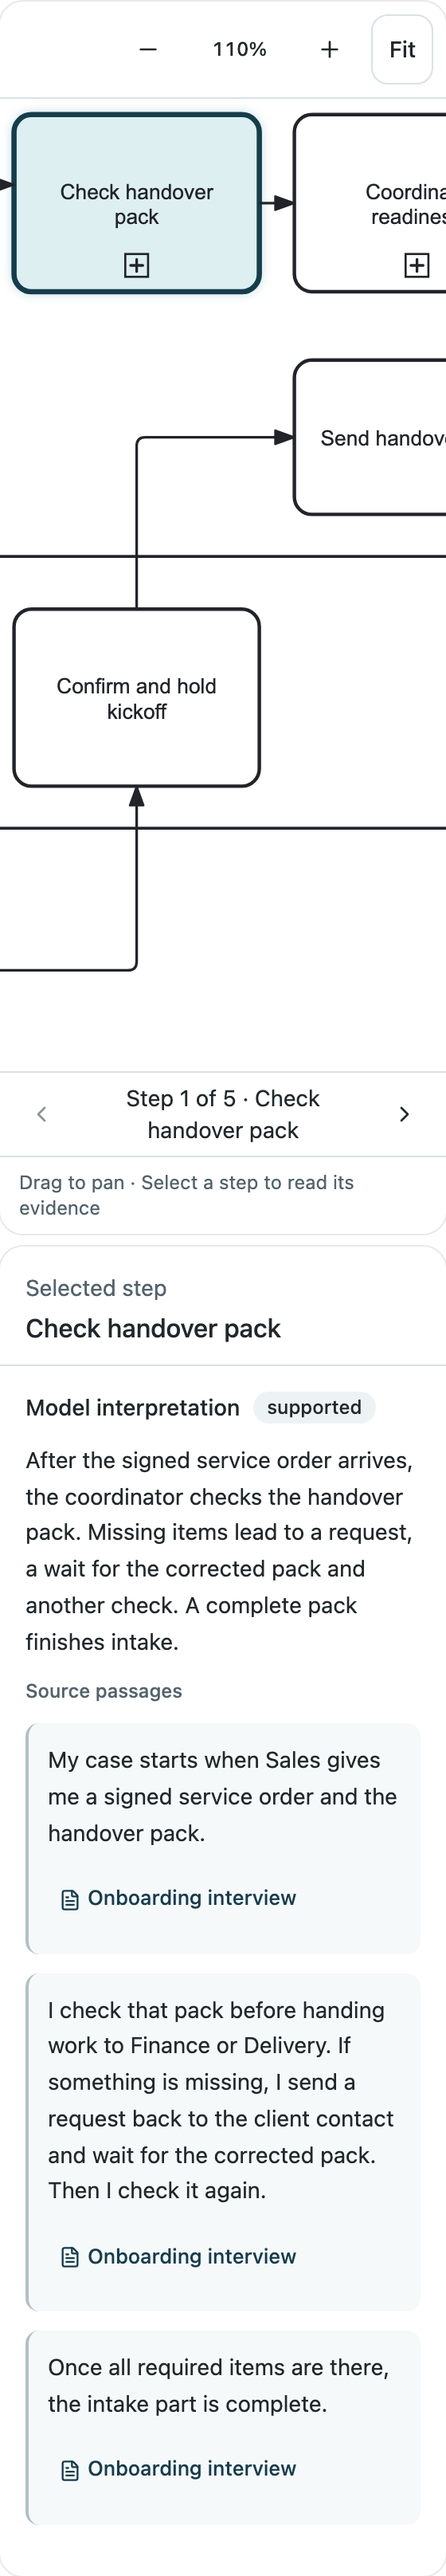
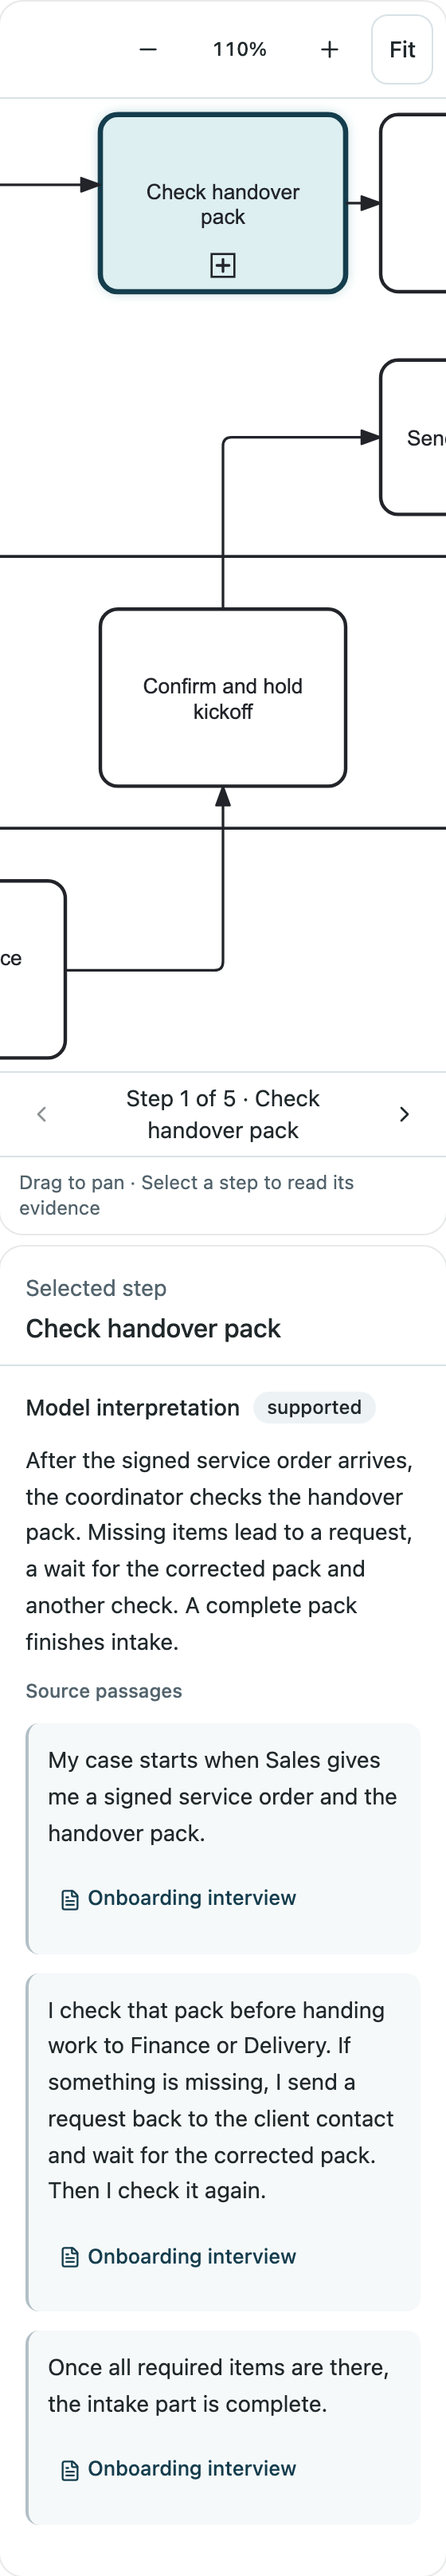
Open the home page example with its selected step whole and centered, instead of where the diagram was left before a reload

diff --git a/scripts/test-cloudflare-browser.js b/scripts/test-cloudflare-browser.js
@@ -231,6 +231,37 @@ try {
   }
   await p.setViewportSize({ width: 1440, height: 1000 });
   console.log("Homepage example loads without moving the page, and its capture stays when it cannot load");
+  // The example opens with its selected step whole in the diagram, centered where the steps don't all fit,
+  // on a first visit and on a reload after the visitor has moved the diagram to another step.
+  for (const width of [1440, 1279, 1024, 768, 390, 320]) {
+    await p.setViewportSize({ width, height: 844 });
+    await p.evaluate(() => sessionStorage.clear());
+    for (const visit of ["a first visit", "a reload after another step was shown"]) {
+      await p.goto(base + "/");
+      await demo.scrollIntoViewIfNeeded();
+      await demo.locator(".diagram-stage .is-selected").waitFor();
+      const first = await demo.evaluate(node => {
+        const stage = node.querySelector(".diagram-stage").getBoundingClientRect(), shape = node.querySelector(".is-selected > rect").getBoundingClientRect();
+        return {
+          title: node.querySelector('.evidence-card [data-slot="card-title"]').textContent,
+          cut: Math.min(shape.left - stage.left, stage.right - shape.right, shape.top - stage.top, stage.bottom - shape.bottom),
+          offCenter: Math.abs(shape.left + shape.right - stage.left - stage.right) / 2,
+        };
+      });
+      assert.equal(first.title, "Check handover pack");
+      assert.ok(first.cut >= 4, `${width}px, ${visit}: the selected step is whole in the diagram (${first.cut}px inside its nearest edge)`);
+      if (width < 1024) assert.ok(first.offCenter <= 2, `${width}px, ${visit}: the selected step is centered (${first.offCenter}px off)`);
+      // Leave the diagram on the last step, where the first is out of view on a phone.
+      await demo.locator(".diagram-stage").evaluate(node => node.scrollIntoView({ block: "center" }));
+      const box = await demo.locator(".diagram-stage").boundingBox();
+      await p.mouse.move(box.x + box.width - 20, box.y + 300);
+      await p.mouse.down();
+      await p.mouse.move(box.x + 20, box.y + 300, { steps: 5 });
+      await p.mouse.up();
+      await p.waitForTimeout(200);
+    }
+  }
+  console.log("Homepage example opens with its selected step whole at every width, on a first visit and on a reload");
   // From 1024 px up the example opens with the whole view inside the diagram's edges.
   for (const width of [1440, 1024]) {
     await p.setViewportSize({ width, height: 1000 });

diff --git a/src/web/components/diagram-canvas.tsx b/src/web/components/diagram-canvas.tsx
@@ -34,7 +34,9 @@ interface Props {
   storageKey: string;
   onSelect: (id: string) => void;
   onZoom: (zoom: number) => void;
-  // Open at this zoom from the view's top left corner, shifted to hold these elements when they fit. The first is always in view.
+  // Open at this zoom from the view's top left corner when these elements fit side by side. When they don't,
+  // open with the first centered sideways, as show() leaves it. A view opened this way always opens the same,
+  // so its camera isn't remembered across page loads.
   frame?: { ids: string[]; scale: number };
   ref: Ref<CanvasControls>;
 }
@@ -114,7 +116,7 @@ export function DiagramCanvas({
       };
       let stored: Camera | undefined;
       try {
-        const candidate = JSON.parse(sessionStorage.getItem(key) || "null");
+        const candidate = frame ? null : JSON.parse(sessionStorage.getItem(key) || "null");
         if (
           candidate &&
           [candidate.x, candidate.y, candidate.scale].every(Number.isFinite) &&
@@ -128,6 +130,7 @@ export function DiagramCanvas({
       let camera: Camera = saved.current.get(view.elementId) ||
         stored || { ...original, scale: 1, fitted: true };
       flush = () => {
+        if (frame) return;
         try {
           sessionStorage.setItem(key, JSON.stringify(camera));
         } catch {
@@ -278,9 +281,10 @@ export function DiagramCanvas({
         // Start at the view's top left corner. Move only as far as the last element needs, and never past the first.
         const start = (edge: number, first: number, last: number, span: number) =>
           Math.min(Math.max(edge + 12, last + pad - span), first - pad);
+        const left = Math.min(...boxes.map((b) => b.x)), right = Math.max(...boxes.map((b) => b.x + b.width));
         camera = {
           scale,
-          x: start(original.x, boxes[0].x, Math.max(...boxes.map((b) => b.x + b.width)), width / scale),
+          x: right - left + 2 * pad > width / scale ? boxes[0].x + boxes[0].width / 2 - width / scale / 2 : start(original.x, boxes[0].x, right, width / scale),
           y: start(original.y, boxes[0].y, Math.max(...boxes.map((b) => b.y + b.height)), height / scale),
           fitted: false,
         };

diff --git a/src/web/components/marketing.tsx b/src/web/components/marketing.tsx
@@ -12,7 +12,7 @@ import { PathArt } from "./path-art";
 import { PricingPlans } from "./pricing-plans";
 
 // Bump the version when public/marketing changes (docs/marketing-design.md, "Sharp product previews").
-const capture = (file: string) => `/marketing/${file}?v=12`;
+const capture = (file: string) => `/marketing/${file}?v=13`;
 const repository = "https://github.com/HanifCarroll/Senda";
 const methodology = `${repository}/blob/main/skills/senda/references/methodology.md`;
 

diff --git a/docs/marketing-design.md b/docs/marketing-design.md
@@ -63,7 +63,7 @@ Live references were inspected and visually captured on 27 October 2026:
 
 ## The live example
 
-The evidence section embeds the public example instead of a picture of it, so a visitor can select a step and read its evidence without leaving the page. `EvidenceDemo` in `src/web/components/evidence-demo.tsx` shows the first draft's main view in the app's own `DiagramCanvas` and `EvidencePanel`, with "Check handover pack" selected. The first draft's main view is the one view whose steps show different passages from the interview itself: three passage sets across five steps, because "Verify workspace access", "Confirm and hold kickoff" and "Send handover pack" share one set, and the questions section under it shows the same draft's question. The diagram opens at 110%, so its labels are 12 px, from the view's top left corner. From 1024 px up the whole view is inside the diagram's edges: the diagram is 824 px tall, which is the view's 740 px at 110% with a 10 px margin, and no step, lane or label is cut. From 1280 px up the evidence panel sits beside the diagram. From 1024 to 1279 px the diagram would be too narrow for the view beside the panel, so the panel sits under it, 650 px tall, which holds the longest step's evidence at 1024 px without scrolling. If the view's height changes, change the 824 px in `src/web/styles.css` and the two box heights in `marketing.tsx` with it. On a phone the diagram is wider than the screen, so it starts at its left edge with the selected step in view, and the step buttons under it bring the others into view.
+The evidence section embeds the public example instead of a picture of it, so a visitor can select a step and read its evidence without leaving the page. `EvidenceDemo` in `src/web/components/evidence-demo.tsx` shows the first draft's main view in the app's own `DiagramCanvas` and `EvidencePanel`, with "Check handover pack" selected. The first draft's main view is the one view whose steps show different passages from the interview itself: three passage sets across five steps, because "Verify workspace access", "Confirm and hold kickoff" and "Send handover pack" share one set, and the questions section under it shows the same draft's question. The diagram opens at 110%, so its labels are 12 px, from the view's top left corner. From 1024 px up the whole view is inside the diagram's edges: the diagram is 824 px tall, which is the view's 740 px at 110% with a 10 px margin, and no step, lane or label is cut. From 1280 px up the evidence panel sits beside the diagram. From 1024 to 1279 px the diagram would be too narrow for the view beside the panel, so the panel sits under it, 650 px tall, which holds the longest step's evidence at 1024 px without scrolling. If the view's height changes, change the 824 px in `src/web/styles.css` and the two box heights in `marketing.tsx` with it. Below 1024 px the diagram is wider than the example, so it opens with the selected step centered sideways, as a step button leaves it, and the step buttons under it bring the others into view. The example always opens this way: unlike the app, it doesn't remember where a visitor left the diagram, because a reload shows the first step selected again and a remembered position could leave that step out of view.
 
 - **Nothing navigates.** The selection is local state, so the URL never changes. A passage's source opens in a sheet over the page. The plain "Open the full example" link under it goes to `/example?draft=true` and is the only way out.
 - **No dead buttons.** The demo shows one view, so a subprocess is a step with evidence and has no "Explore this part" button. A step's related questions are shown as text, because the demo has no question list to open. In the app both are still buttons.
@@ -76,7 +76,7 @@ The evidence section embeds the public example instead of a picture of it, so a 
   - The first tap ends the hold on the example's height with the diagram at the height it has, so the buttons don't move under the visitor's thumb.
 - **Phones** show the diagram 610 px tall, which holds every step at 110%, with the evidence panel under it at its full height, so the panel never scrolls inside the page. With the step buttons between them they are 1,531 px tall at 390 px and 1,615 px at 320 px.
 
-`scripts/test-cloudflare-browser.js` selects a step in it and checks that the panel shows another passage, the URL doesn't change, and the wheel scrolls the page. At 390 and 320 px it goes through the five steps with the step buttons and checks each time that the label, the diagram and the panel name the same step, the step is whole and centered in the diagram, and the URL and the page's scroll position haven't changed. At 1440 px it checks that the buttons are hidden. At 1440 and 1024 px it checks that the diagram's text is 12 px or more and that nothing in the diagram is cut by its edges. On `/` and `/example?draft=true` at 1440 and 390 px it runs `scripts/diagram-text-check.js`, which fails if any diagram text overlaps other text or crosses a pool or lane border. At 1440, 1280, 1279, 1024, 768, 390 and 320 px it holds the data request back and checks that the section's height and the next section's top don't move when the demo appears, then fails the request and checks that the capture stays.
+`scripts/test-cloudflare-browser.js` selects a step in it and checks that the panel shows another passage, the URL doesn't change, and the wheel scrolls the page. At 390 and 320 px it goes through the five steps with the step buttons and checks each time that the label, the diagram and the panel name the same step, the step is whole and centered in the diagram, and the URL and the page's scroll position haven't changed. At 1440 px it checks that the buttons are hidden. At 1440, 1279, 1024, 768, 390 and 320 px it checks that the selected step is whole in the diagram on a first visit and on a reload after the diagram was dragged away, and below 1024 px that it is centered. At 1440 and 1024 px it checks that the diagram's text is 12 px or more and that nothing in the diagram is cut by its edges. On `/` and `/example?draft=true` at 1440 and 390 px it runs `scripts/diagram-text-check.js`, which fails if any diagram text overlaps other text or crosses a pool or lane border. At 1440, 1280, 1279, 1024, 768, 390 and 320 px it holds the data request back and checks that the section's height and the next section's top don't move when the demo appears, then fails the request and checks that the capture stays.
 
 ## Captures
 

diff --git a/CHANGELOG.md b/CHANGELOG.md
@@ -7,6 +7,7 @@
 - Show the public example live in the homepage's evidence section, so selecting a step shows its passage on the page instead of opening `/example`. It shows the first draft's main view, whose steps show three different sets of passages, loads when the section comes near the viewport without moving the page, and never takes over the page's scroll. On desktop, sections now put text beside their visual, alternating sides, which makes the page about 900 px shorter at 1440 px wide.
 - Add "Previous step" and "Next step" buttons under the homepage example on phones and tablets, with a label such as "Step 2 of 5 · Coordinate readiness". Each one selects a step, moves the diagram to it and shows its passages, so visitors read all five steps without dragging the diagram sideways.
 - Keep pool and lane names inside their own pool or lane: a long name wraps onto two lines along the title strip, and a lane too short for its name gets taller. Lanes no longer overlap the lane below after a step grows, a flow label's drawn lines stay clear of connections, and exported BPMN carries the new pool and lane bounds. The homepage example shows the whole diagram from 1024 px up.
+- Open the homepage example with its selected step whole and, on phones and tablets, centered. It no longer reopens where the diagram was left, which could cut the selected step off after a reload.
 
 ## 0.4.0
 
